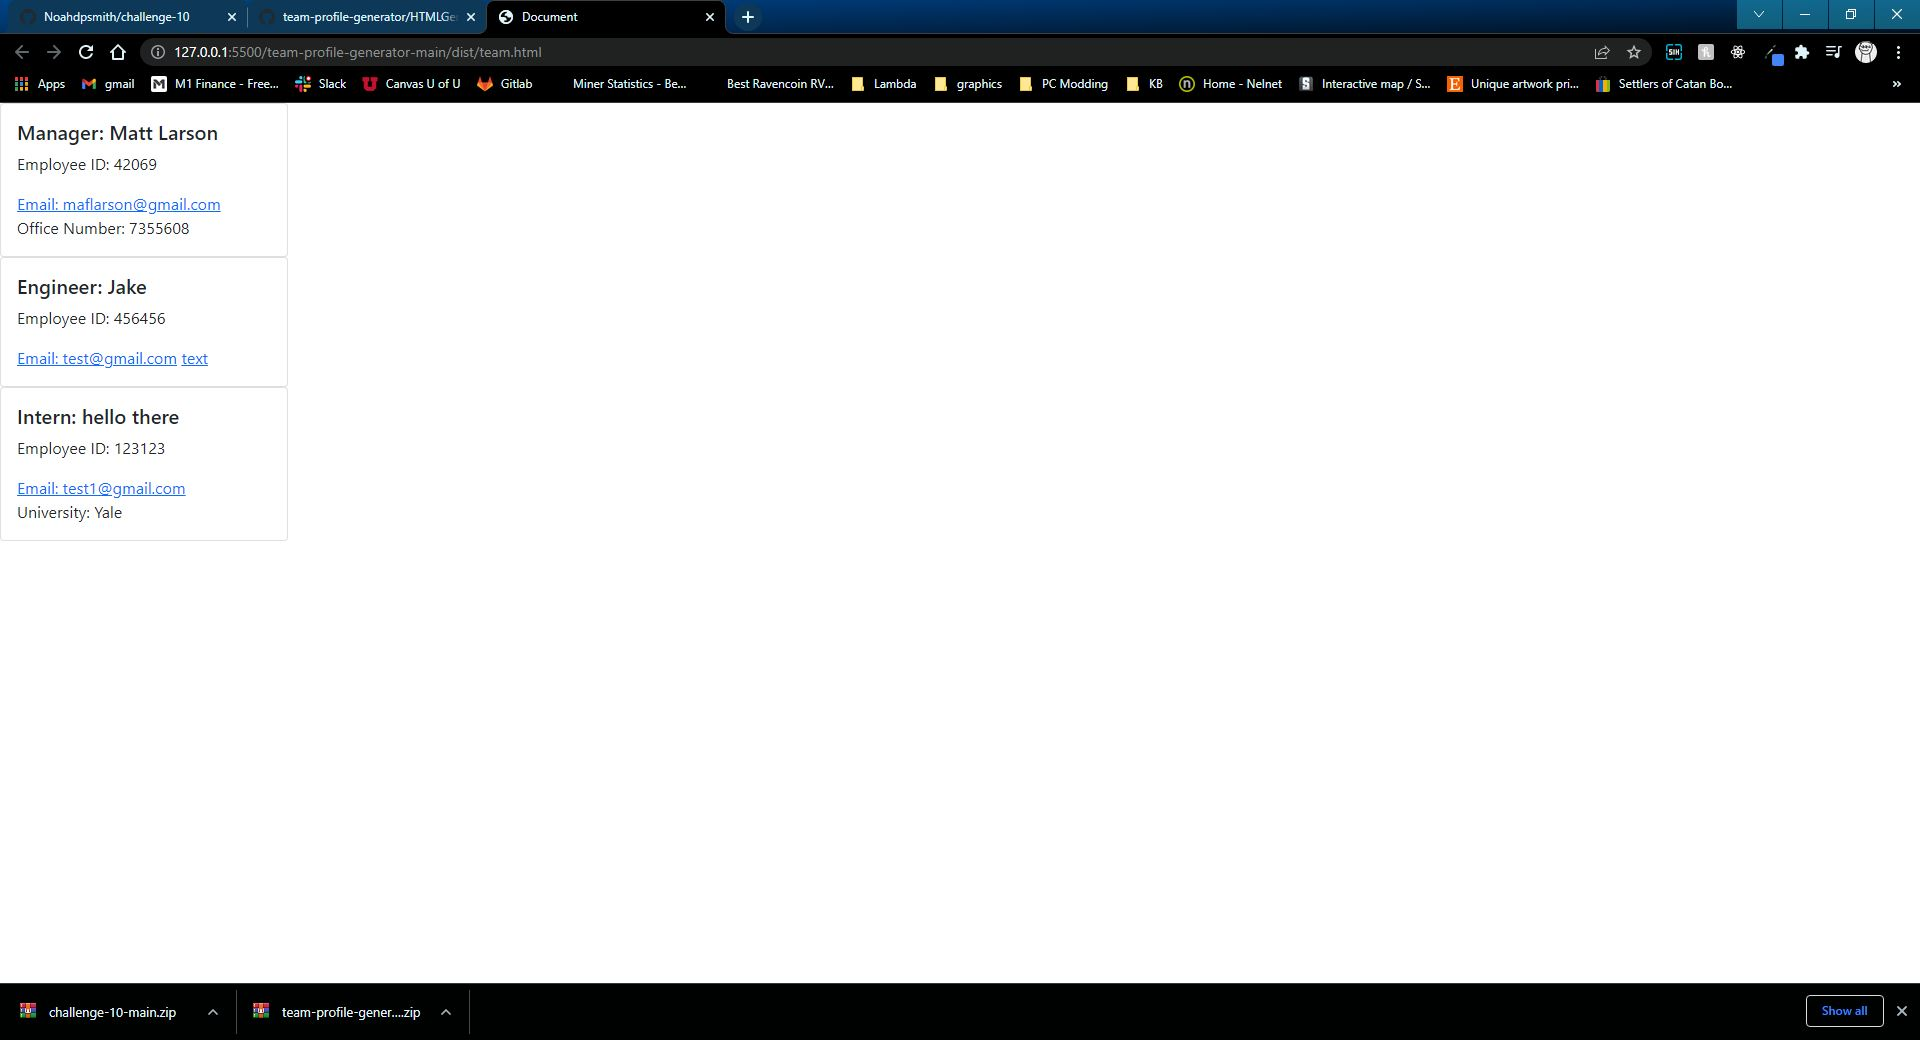
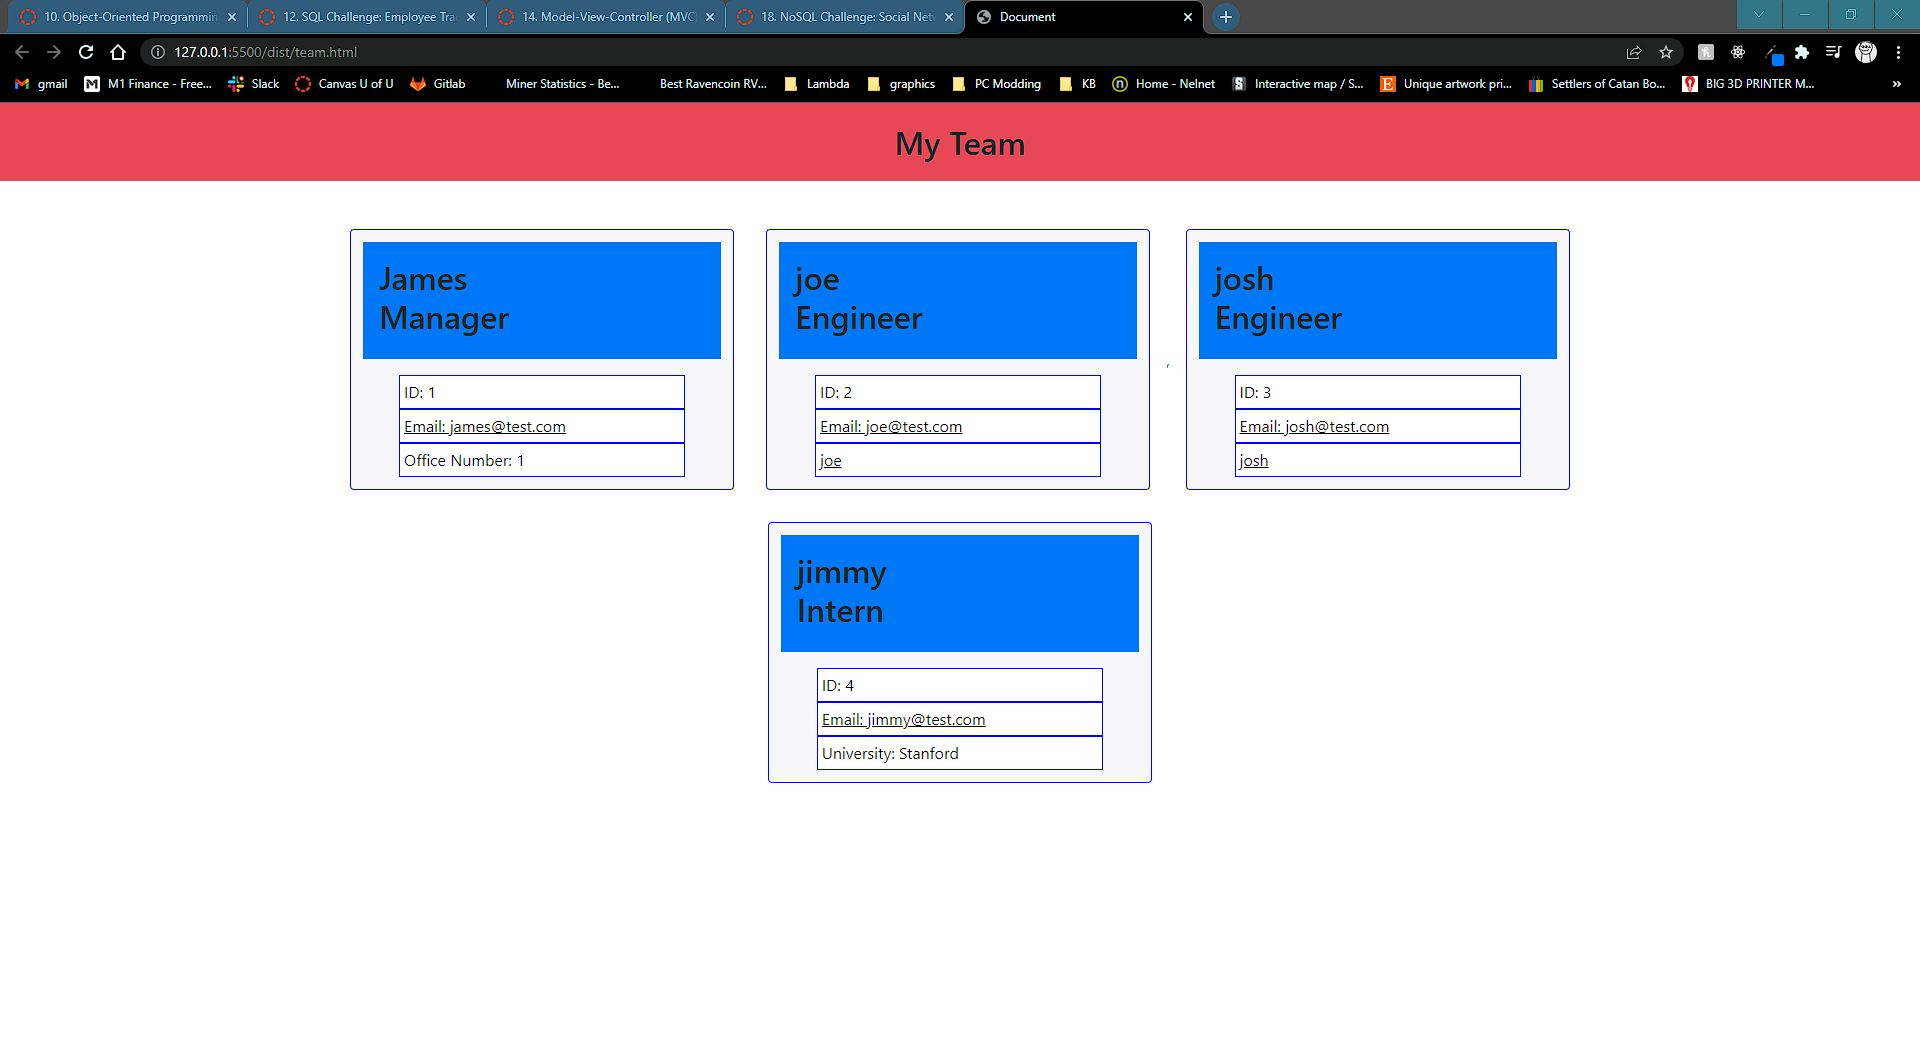
styled

diff --git a/dist/team.html b/dist/team.html
@@ -7,6 +7,55 @@
     <meta name="viewport" content="width=<device-width>, initial-scale=1.0">
     <title>Document</title>
     <link href="https://cdn.jsdelivr.net/npm/bootstrap@5.1.3/dist/css/bootstrap.min.css" rel="stylesheet" integrity="sha384-1BmE4kWBq78iYhFldvKuhfTAU6auU8tT94WrHftjDbrCEXSU1oBoqyl2QvZ6jIW3" crossorigin="anonymous">
+    <style>
+        main {
+            display: flex;
+            flex-direction: row;
+            flex-wrap: wrap;
+            width: 80vw;
+            margin: 0 auto;
+            align-items: center;
+            justify-content: center;
+        }
+        header {
+            width: 100vw;
+            text-align: center;
+            font-size: 2rem;
+            margin-bottom: 2rem;
+            background-color: #e84756;
+        }
+        header h1 {
+            font-size: 2rem;
+            padding: 20px;
+        }
+        .card {
+            width: 20vw;
+            margin: 1rem;
+            background-color: #f7f7f9;
+            border: 1px solid blue;
+            padding: .75rem;
+        }
+        .card-body {
+            background-color: #0077f7;
+            margin-bottom: 1rem;
+        }
+        .card p {
+            width: 80%;
+            padding: .25rem;
+            color: black;
+            margin: 0 auto;
+            background-color: white;
+            border: 1px solid blue;
+        }
+        .card a {
+            width: 80%;
+            margin: 0 auto;
+            padding: .25rem;
+            color: black;
+            background-color: white;
+            border: 1px solid blue;
+        }
+    </style>
 </head>
 <body>
     <header>
@@ -15,33 +64,46 @@
     <main>
         
 
-        <div class="card" style="width: 18rem;">
+        <div class="card">
             <div class="card-body">
-                <h5 class="card-title">Manager: matt</h5>
-                <p class="card-text">Employee ID: 42069</p>
-                <a href="mailto:maflarson@gmail.com">Email: maflarson@gmail.com</a>
-                <p class="card-text">Office Number: 123456789</p>
+                <h2 class="card-title">James<br>Manager</h2>
             </div>
+                <p class="card-text">ID: 1</p>
+                <a href="mailto:james@test.com">Email: james@test.com</a>
+                <p class="card-text">Office Number: 1</p>
+                
         </div>
     
 
-        <div class="card" style="width: 18rem;">
+        <div class="card">
             <div class="card-body">
-                <h5 class="card-title">Engineer: eng</h5>
-                <p class="card-text">Employee ID: 123</p>
-                <a href="mailto:test1@gmail.com">Email: test1@gmail.com</a>
-                <a href="https://github.com/testing">testing</a>
+                <h2 class="card-title">joe<br>Engineer</h2>
             </div>
+                <p class="card-text">ID: 2</p>
+                <a href="mailto:joe@test.com">Email: joe@test.com</a>
+                <a href="https://github.com/joe">joe</a>
+            
+        </div>
+    ,
+        <div class="card">
+            <div class="card-body">
+                <h2 class="card-title">josh<br>Engineer</h2>
+            </div>
+                <p class="card-text">ID: 3</p>
+                <a href="mailto:josh@test.com">Email: josh@test.com</a>
+                <a href="https://github.com/josh">josh</a>
+            
         </div>
     
 
-        <div class="card" style="width: 18rem;">
+        <div class="card">
             <div class="card-body">
-                <h5 class="card-title">Intern: test12</h5>
-                <p class="card-text">Employee ID: 456456</p>
-                <a href="mailto:test123@gmail.com">Email: test123@gmail.com</a>
-                <p class="card-text">University: Yale</p>
+                <h2 class="card-title">jimmy<br/>Intern</h2>
             </div>
+                <p class="card-text">ID: 4</p>
+                <a href="mailto:jimmy@test.com">Email: jimmy@test.com</a>
+                <p class="card-text">University: Stanford</p>
+            
         </div>
     
     

diff --git a/lib/HTMLGenerator.js b/lib/HTMLGenerator.js
@@ -5,11 +5,12 @@ function generateManagerHTML (manager) {
     return `
         <div class="card">
             <div class="card-body">
-                <h2 class="card-title">Manager: ${manager.name}</h2>
-                <p class="card-text">Employee ID: ${manager.ID}</p>
+                <h2 class="card-title">${manager.name}<br>Manager</h2>
+            </div>
+                <p class="card-text">ID: ${manager.ID}</p>
                 <a href="mailto:${manager.email}">Email: ${manager.email}</a>
                 <p class="card-text">Office Number: ${manager.officeNumber}</p>
-                </div>
+                
         </div>
     `
 }
@@ -17,34 +18,28 @@ function generateManagerHTML (manager) {
 //function is called looping over an array containing objects for each engineer
 function generateEngineerHTML (engineer) {
     return `
-        <div class="card" style="width: 18rem;">
-            <div class="card-body">
-                <h5 class="card-title">Engineer: ${engineer.name}</h5>
-                <p class="card-text">Employee ID: ${engineer.ID}</p>
-                <a href="mailto:${engineer.email}">Email: ${engineer.email}</a>
-                <a href="https://github.com/${engineer.github}">${engineer.github}</a>
-            </div>
-        </div>
         <div class="card">
             <div class="card-body">
-                <h2 class="card-title">Engineer: ${engineer.name}</h2>
-                <p class="card-text">Employee ID: ${engineer.ID}</p>
+                <h2 class="card-title">${engineer.name}<br>Engineer</h2>
+            </div>
+                <p class="card-text">ID: ${engineer.ID}</p>
                 <a href="mailto:${engineer.email}">Email: ${engineer.email}</a>
                 <a href="https://github.com/${engineer.github}">${engineer.github}</a>
-            </div>
+            
         </div>
     `
 }
 
 function generateInternHTML (intern) {
     return `
-        <div class="card" style="width: 18rem;">
+        <div class="card">
             <div class="card-body">
-                <h5 class="card-title">Intern: ${intern.name}</h5>
-                <p class="card-text">Employee ID: ${intern.ID}</p>
+                <h2 class="card-title">${intern.name}<br/>Intern</h2>
+            </div>
+                <p class="card-text">ID: ${intern.ID}</p>
                 <a href="mailto:${intern.email}">Email: ${intern.email}</a>
                 <p class="card-text">University: ${intern.school}</p>
-            </div>
+            
         </div>
     `
 }
@@ -103,10 +98,39 @@ function writeHTML (bodyHTML){
             text-align: center;
             font-size: 2rem;
             margin-bottom: 2rem;
+            background-color: #e84756;
         }
         header h1 {
             font-size: 2rem;
             padding: 20px;
+        }
+        .card {
+            width: 20vw;
+            margin: 1rem;
+            background-color: #f7f7f9;
+            border: 1px solid blue;
+            padding: .75rem;
+        }
+        .card-body {
+            background-color: #0077f7;
+            width: 100%;
+            margin-bottom: 1rem;
+        }
+        .card p {
+            width: 80%;
+            padding: .25rem;
+            color: black;
+            background-color: white;
+            border: 1px solid #0077f7;
+            margin: 0 auto;
+        }
+        .card a {
+            width: 80%;
+            padding: .25rem;
+            color: black;
+            background-color: white;
+            border: 1px solid #0077f7;
+            margin: 0 auto;
         }
     </style>
 </head>
